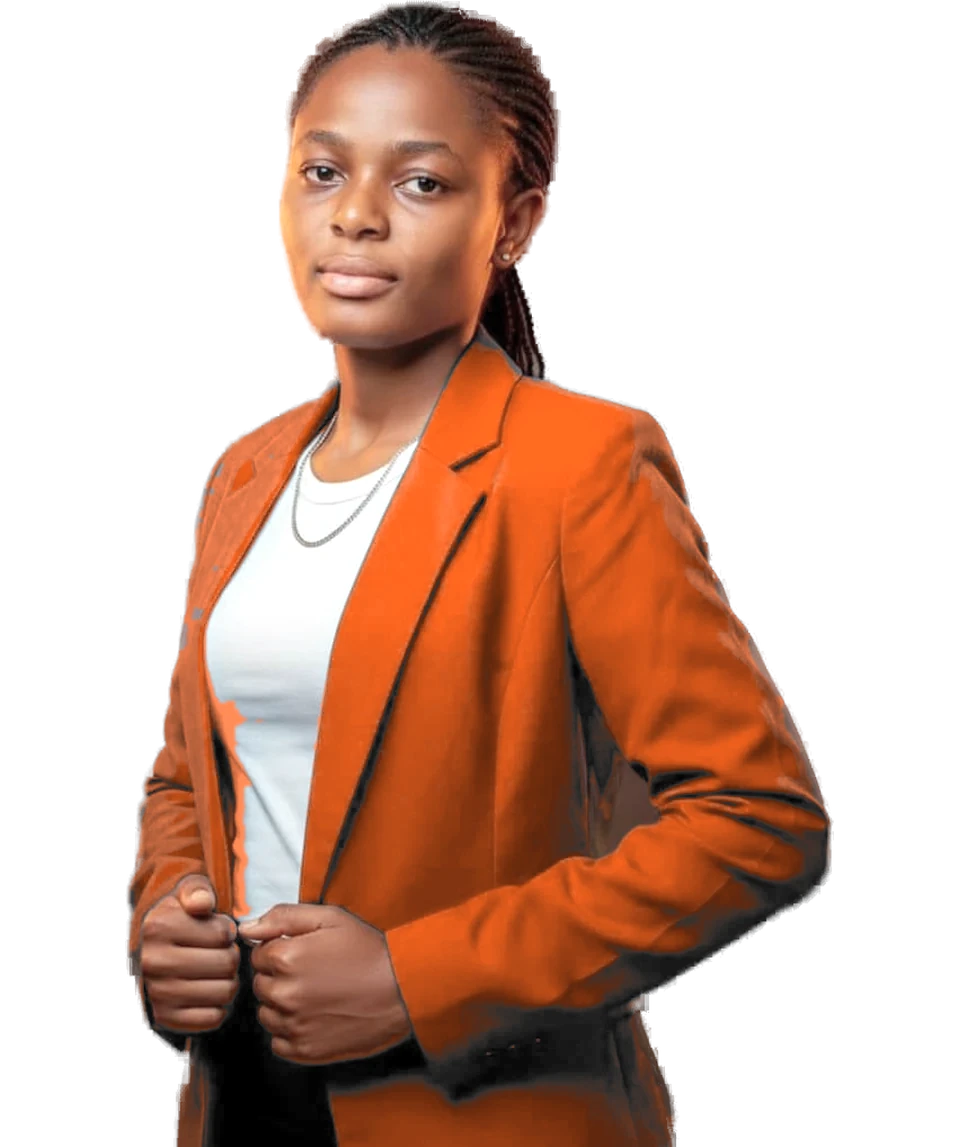
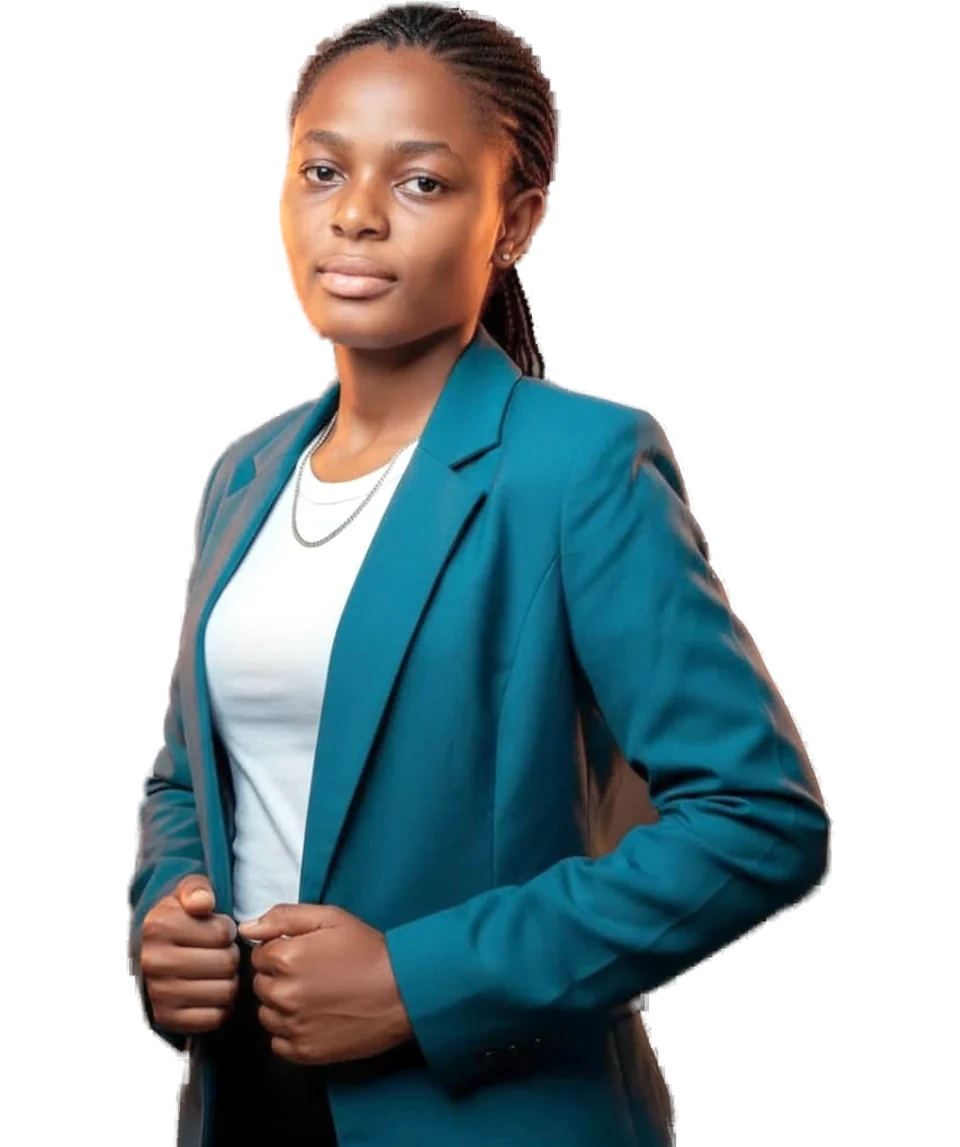
Portfolio de Batista Segla

diff --git a/src/components/Skills.jsx b/src/components/Skills.jsx
@@ -40,9 +40,9 @@ export default function Skills() {
           <div className="mt-16 grid gap-6 sm:mt-20 lg:grid-cols-3">
             {skillGroups.map((g, i) => (
               <Reveal key={g.title} delay={i * 100}>
-                {/* Au survol : la boîte se remplit d'orange depuis un coin, se soulève,
+                {/* Au survol : la boîte se remplit de vert depuis un coin, se soulève,
                     et ses pastilles se soulèvent l'une après l'autre. */}
-                <div tabIndex={0} className={`group/box relative h-full overflow-hidden rounded-[2rem] p-8 transition-[transform,box-shadow,color,border-color] duration-500 ease-[cubic-bezier(.2,.7,.2,1)] hover:-translate-y-2 hover:-rotate-1 hover:border-accent hover:text-ink hover:shadow-[0_30px_60px_-25px_rgba(255,107,44,.7)] focus-visible:-translate-y-2 focus-visible:text-ink sm:p-10 ${i === 0 ? "border border-ink bg-ink text-bone" : "border border-ink/15"}`}>
+                <div tabIndex={0} className={`group/box relative h-full overflow-hidden rounded-[2rem] p-8 transition-[transform,box-shadow,color,border-color] duration-500 ease-[cubic-bezier(.2,.7,.2,1)] hover:-translate-y-2 hover:-rotate-1 hover:border-accent hover:text-ink hover:shadow-[0_30px_60px_-25px_rgba(156,255,61,.7)] focus-visible:-translate-y-2 focus-visible:text-ink sm:p-10 ${i === 0 ? "border border-ink bg-ink text-bone" : "border border-ink/15"}`}>
                   <span aria-hidden="true" className="absolute inset-0 bg-accent transition-[clip-path] duration-700 ease-[cubic-bezier(.2,.7,.2,1)] [clip-path:circle(0%_at_100%_0%)] group-hover/box:[clip-path:circle(150%_at_100%_0%)] group-focus-visible/box:[clip-path:circle(150%_at_100%_0%)]" />
                   <Spark className="absolute -bottom-10 -right-10 h-40 w-40 scale-50 text-ink opacity-0 transition-all duration-700 group-hover/box:scale-100 group-hover/box:opacity-10 group-hover/box:rotate-90" />
                   <div className="relative flex items-baseline justify-between">

diff --git a/src/components/Process.jsx b/src/components/Process.jsx
@@ -21,7 +21,7 @@ export default function Process() {
       <ol className="mt-14 grid gap-5 sm:mt-20 sm:grid-cols-2 lg:grid-cols-4">
         {process.map((s, i) => (
           <Reveal as="li" key={s.n} delay={i * 110} className={offset[i]}>
-            <div tabIndex={0} className="group relative flex h-full min-h-[19rem] flex-col justify-between overflow-hidden rounded-[2rem] border border-bone/15 bg-bone/[0.05] p-7 transition-[transform,color,border-color,box-shadow] duration-500 ease-[cubic-bezier(.2,.7,.2,1)] hover:-translate-y-2 hover:border-accent hover:text-ink hover:shadow-[0_30px_60px_-25px_rgba(255,107,44,.6)] focus-visible:text-ink sm:p-8">
+            <div tabIndex={0} className="group relative flex h-full min-h-[19rem] flex-col justify-between overflow-hidden rounded-[2rem] border border-bone/15 bg-bone/[0.05] p-7 transition-[transform,color,border-color,box-shadow] duration-500 ease-[cubic-bezier(.2,.7,.2,1)] hover:-translate-y-2 hover:border-accent hover:text-ink hover:shadow-[0_30px_60px_-25px_rgba(156,255,61,.6)] focus-visible:text-ink sm:p-8">
               <span aria-hidden="true" className="absolute inset-0 bg-accent transition-[clip-path] duration-700 ease-[cubic-bezier(.2,.7,.2,1)] [clip-path:circle(0%_at_0%_100%)] group-hover:[clip-path:circle(150%_at_0%_100%)] group-focus-visible:[clip-path:circle(150%_at_0%_100%)]" />
               {/* Grand numéro en contour */}
               <span aria-hidden="true" className="pointer-events-none absolute -right-2 -top-6 font-display text-[9rem] font-bold leading-none tracking-[-0.06em] text-transparent transition-all duration-700 [-webkit-text-stroke:1.5px_rgba(245,245,239,.16)] group-hover:-translate-x-2 group-hover:translate-y-2 group-hover:[-webkit-text-stroke:1.5px_rgba(9,9,9,.3)]">{s.n}</span>

diff --git a/tailwind.config.js b/tailwind.config.js
@@ -6,10 +6,10 @@ export default {
       // Palette : noir, blanc cassé et UNE couleur d'accent.
       // Pour changer la couleur du site, modifiez simplement "accent" ci-dessous.
       colors: {
-        ink: "#090909", bone: "#F5F5EF", accent: "#FF6B2C",
-        // Couleurs de texte secondaires, en gris chauds accordés à l'accent.
-        mist: { DEFAULT: "#D3CCC2", dim: "#9E968B" },   // sur fond noir : texte courant / discret
-        moss: { DEFAULT: "#33291F", dim: "#675C50" },   // sur fond clair : texte courant / discret
+        ink: "#090909", bone: "#F5F5EF", accent: "#9CFF3D",
+        // Couleurs de texte secondaires, teintées vers le vert pour s'accorder à l'accent.
+        mist: { DEFAULT: "#C9D1BC", dim: "#959E88" },   // sur fond noir : texte courant / discret
+        moss: { DEFAULT: "#2B3421", dim: "#56604A" },   // sur fond clair : texte courant / discret
       },
       fontFamily: {
         display: ['"Space Grotesk Variable"', "Space Grotesk", "system-ui", "sans-serif"],

diff --git a/src/components/Curtain.jsx b/src/components/Curtain.jsx
@@ -7,7 +7,7 @@ import { Spark } from "./ui.jsx";
    Au clic : les deux pans s'écartent, puis les éléments de la Hero se placent un à un
    (l'ordre est donné par la prop `delay` des <Reveal> dans Hero.jsx). */
 const folds =
-  "bg-[repeating-linear-gradient(90deg,#7c2c0b_0,#d9531a_2.2%,#ff6b2c_4.4%,#c2440f_6.6%,#7c2c0b_8.8%)]";
+  "bg-[repeating-linear-gradient(90deg,#2c5208_0,#6cc21e_2.2%,#9cff3d_4.4%,#5fae18_6.6%,#2c5208_8.8%)]";
 const shade = "absolute inset-0 bg-gradient-to-b from-ink/55 via-transparent to-ink/70";
 
 export default function Curtain() {

diff --git a/src/components/Marquee.jsx b/src/components/Marquee.jsx
@@ -16,7 +16,7 @@ export default function Marquee() {
   );
   return (
     <div className="overflow-hidden py-10 sm:py-14">
-      <div className="-mx-6 -rotate-2 bg-accent py-5 text-ink shadow-[0_10px_40px_-10px_rgba(255,107,44,.5)] sm:py-8">
+      <div className="-mx-6 -rotate-2 bg-accent py-5 text-ink shadow-[0_10px_40px_-10px_rgba(156,255,61,.5)] sm:py-8">
         <div className="flex w-max animate-marquee">{row(false)}{row(true)}</div>
       </div>
     </div>
